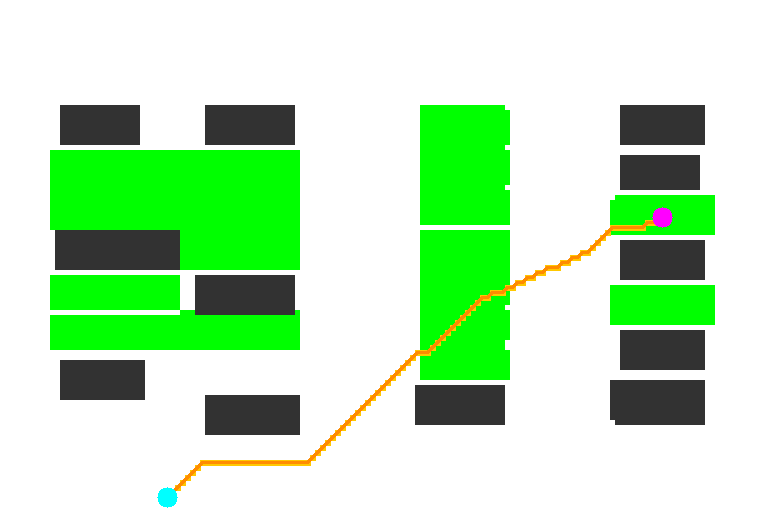
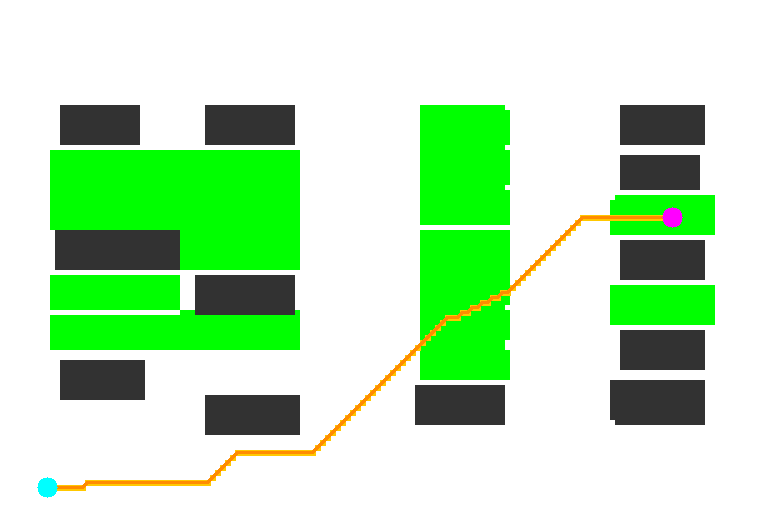
fix: linear_mpc_controller

Changed region(s): [[0.0301, 0.4412, 0.7817, 1.0], [0.7516, 0.4118, 0.902, 0.4706]]

diff --git a/main.py b/main.py
@@ -45,7 +45,7 @@ class ParkingGridConverter:
         self.path = None
         self.smoothed_path = None
         self.inflated_grid = None
-        self.clearance_radius = 1
+        self.clearance_radius = 0  # Default: half car width + 1px ((40px/2 + 1px) / 10px = 2.1 ≈ 3 cells)
         
         # Simulation
         self.simulation_running = False
@@ -194,11 +194,12 @@ class ParkingGridConverter:
         self.clearance_spinbox = ttk.Spinbox(
             config_frame,
             from_=0,
-            to=5,
+            to=10,
             width=8
         )
-        self.clearance_spinbox.set(1)
+        self.clearance_spinbox.set(self.clearance_radius)
         self.clearance_spinbox.pack(side=tk.LEFT, padx=5)
+       # ttk.Label(config_frame, text="(0=auto)", font=("Arial", 8), foreground="gray").pack(side=tk.LEFT, padx=2)
         
         ttk.Label(config_frame, text="Cell Size (px):").pack(side=tk.LEFT, padx=5)
         self.cell_size_spinbox = ttk.Spinbox(
@@ -1278,6 +1279,9 @@ class ParkingGridConverter:
             
             self.update_info(info_text)
             
+            # Calculate and update clearance value for A* pathfinding
+            self.update_clearance_value()
+            
         except Exception as e:
             messagebox.showerror("Error", f"Error generating grid: {str(e)}")
             import traceback
@@ -1572,27 +1576,37 @@ class ParkingGridConverter:
             return
         
         try:
-            # Calculate clearance based on half of car's pixel width in grid cells
+            # Calculate clearance based on half of car's pixel width + 1px in grid cells
             car_width_cells = self.get_car_width_in_cells()
+            
+            # Get cell width in pixels
+            height, width = self.processed_image.shape[:2]
+            cell_width_px = width // self.grid_cols
+            
+            # Calculate: half car width + 1 pixel, converted to cells
             half_car_width = car_width_cells / 2.0
+            one_pixel_in_cells = 1.0 / cell_width_px
+            half_car_width_plus_1px = half_car_width + one_pixel_in_cells
             
             # Use the calculated value, but allow manual override from spinbox
             spinbox_value = int(self.clearance_spinbox.get())
-            if spinbox_value > 0:
-                # If user specified a value, use it
-                self.clearance_radius = spinbox_value
+            if spinbox_value == 0:
+                # Auto-calculate based on half car width + 1px (default)
+                self.clearance_radius = int(max(1, int(np.ceil(half_car_width_plus_1px))))
+                self.clearance_spinbox.set(self.clearance_radius)
+                self.update_status(f"Car width: {car_width_cells:.1f} cells, auto clearance: {self.clearance_radius} cells (½ width + 1px)")
             else:
-                # Auto-calculate based on half car width
-                self.clearance_radius = max(1, int(np.ceil(half_car_width)))
-            
-            self.update_status(f"Car width: {car_width_cells:.1f} cells, using clearance: {self.clearance_radius} cells (half width: {half_car_width:.1f})")
+                # User specified a manual value, use it
+                self.clearance_radius = int(spinbox_value)
+                auto_value = int(np.ceil(half_car_width_plus_1px))
+                self.update_status(f"Car width: {car_width_cells:.1f} cells, manual clearance: {self.clearance_radius} cells (auto would be: {auto_value})")
             
             # Create working grid (treat parking spots as navigable for pathfinding)
             working_grid = np.where(self.grid_matrix == 2, 0, self.grid_matrix)
             
             if self.clearance_radius > 0:
                 self.inflated_grid = self.inflate_obstacles(working_grid, self.clearance_radius)
-                self.update_status(f"Inflating obstacles with clearance: {self.clearance_radius} cells (half car width)")
+                self.update_status(f"Inflating obstacles with clearance: {self.clearance_radius} cells (½ car width + 1px)")
                 # Save inflated grid image with parking spots
                 self.save_inflated_grid_image(self.inflated_grid, self.grid_matrix, "26_inflated_grid.png")
             else:
@@ -1630,7 +1644,7 @@ class ParkingGridConverter:
                 info_text += f"Path nodes: {len(path)}\n"
                 info_text += f"Path distance: {path_length:.2f} units\n"
                 info_text += f"Car width: {car_width_cells:.1f} cells\n"
-                info_text += f"Clearance: {self.clearance_radius} cells (½ width)\n"
+                info_text += f"Clearance: {self.clearance_radius} cells (½ width + 1px)\n"
                 if self.smoothed_path is not None:
                     info_text += f"Smoothing: B-spline (100 points)\n"
                 info_text += f"Movement: 8-directional (diagonal)\n\n"
@@ -1674,6 +1688,41 @@ class ParkingGridConverter:
         car_width_cells = car_width_pixels / cell_width
         
         return car_width_cells
+    
+    def update_clearance_value(self):
+        """Calculate and update the clearance value based on car width"""
+        if self.processed_image is None or self.grid_matrix is None:
+            return
+        
+        try:
+            # Calculate clearance based on half of car's pixel width + 1px in grid cells
+            car_width_cells = self.get_car_width_in_cells()
+            
+            # Get cell width in pixels
+            height, width = self.processed_image.shape[:2]
+            cell_width_px = width // self.grid_cols
+            
+            # Calculate: half car width + 1 pixel, converted to cells
+            half_car_width = car_width_cells / 2.0
+            one_pixel_in_cells = 1.0 / cell_width_px
+            half_car_width_plus_1px = half_car_width + one_pixel_in_cells
+            
+            # Check if user has set a manual value
+            spinbox_value = int(self.clearance_spinbox.get())
+            if spinbox_value == 0:
+                # Auto-calculate and update spinbox
+                auto_clearance = int(max(1, int(np.ceil(half_car_width_plus_1px))))
+                self.clearance_radius = auto_clearance
+                self.clearance_spinbox.delete(0, tk.END)
+                self.clearance_spinbox.insert(0, str(auto_clearance))
+                self.update_status(f"✓ Auto clearance updated: {auto_clearance} cells (car width: {car_width_cells:.1f} cells, ½ width + 1px)")
+            else:
+                # User has manual value, just update internal variable
+                self.clearance_radius = int(spinbox_value)
+                auto_value = int(np.ceil(half_car_width_plus_1px))
+                self.update_status(f"✓ Using manual clearance: {self.clearance_radius} cells (auto would be: {auto_value} cells)")
+        except Exception as e:
+            print(f"Error updating clearance: {e}")
     
     def inflate_obstacles(self, grid, clearance):
         """Inflate obstacles in the grid by a given clearance"""
